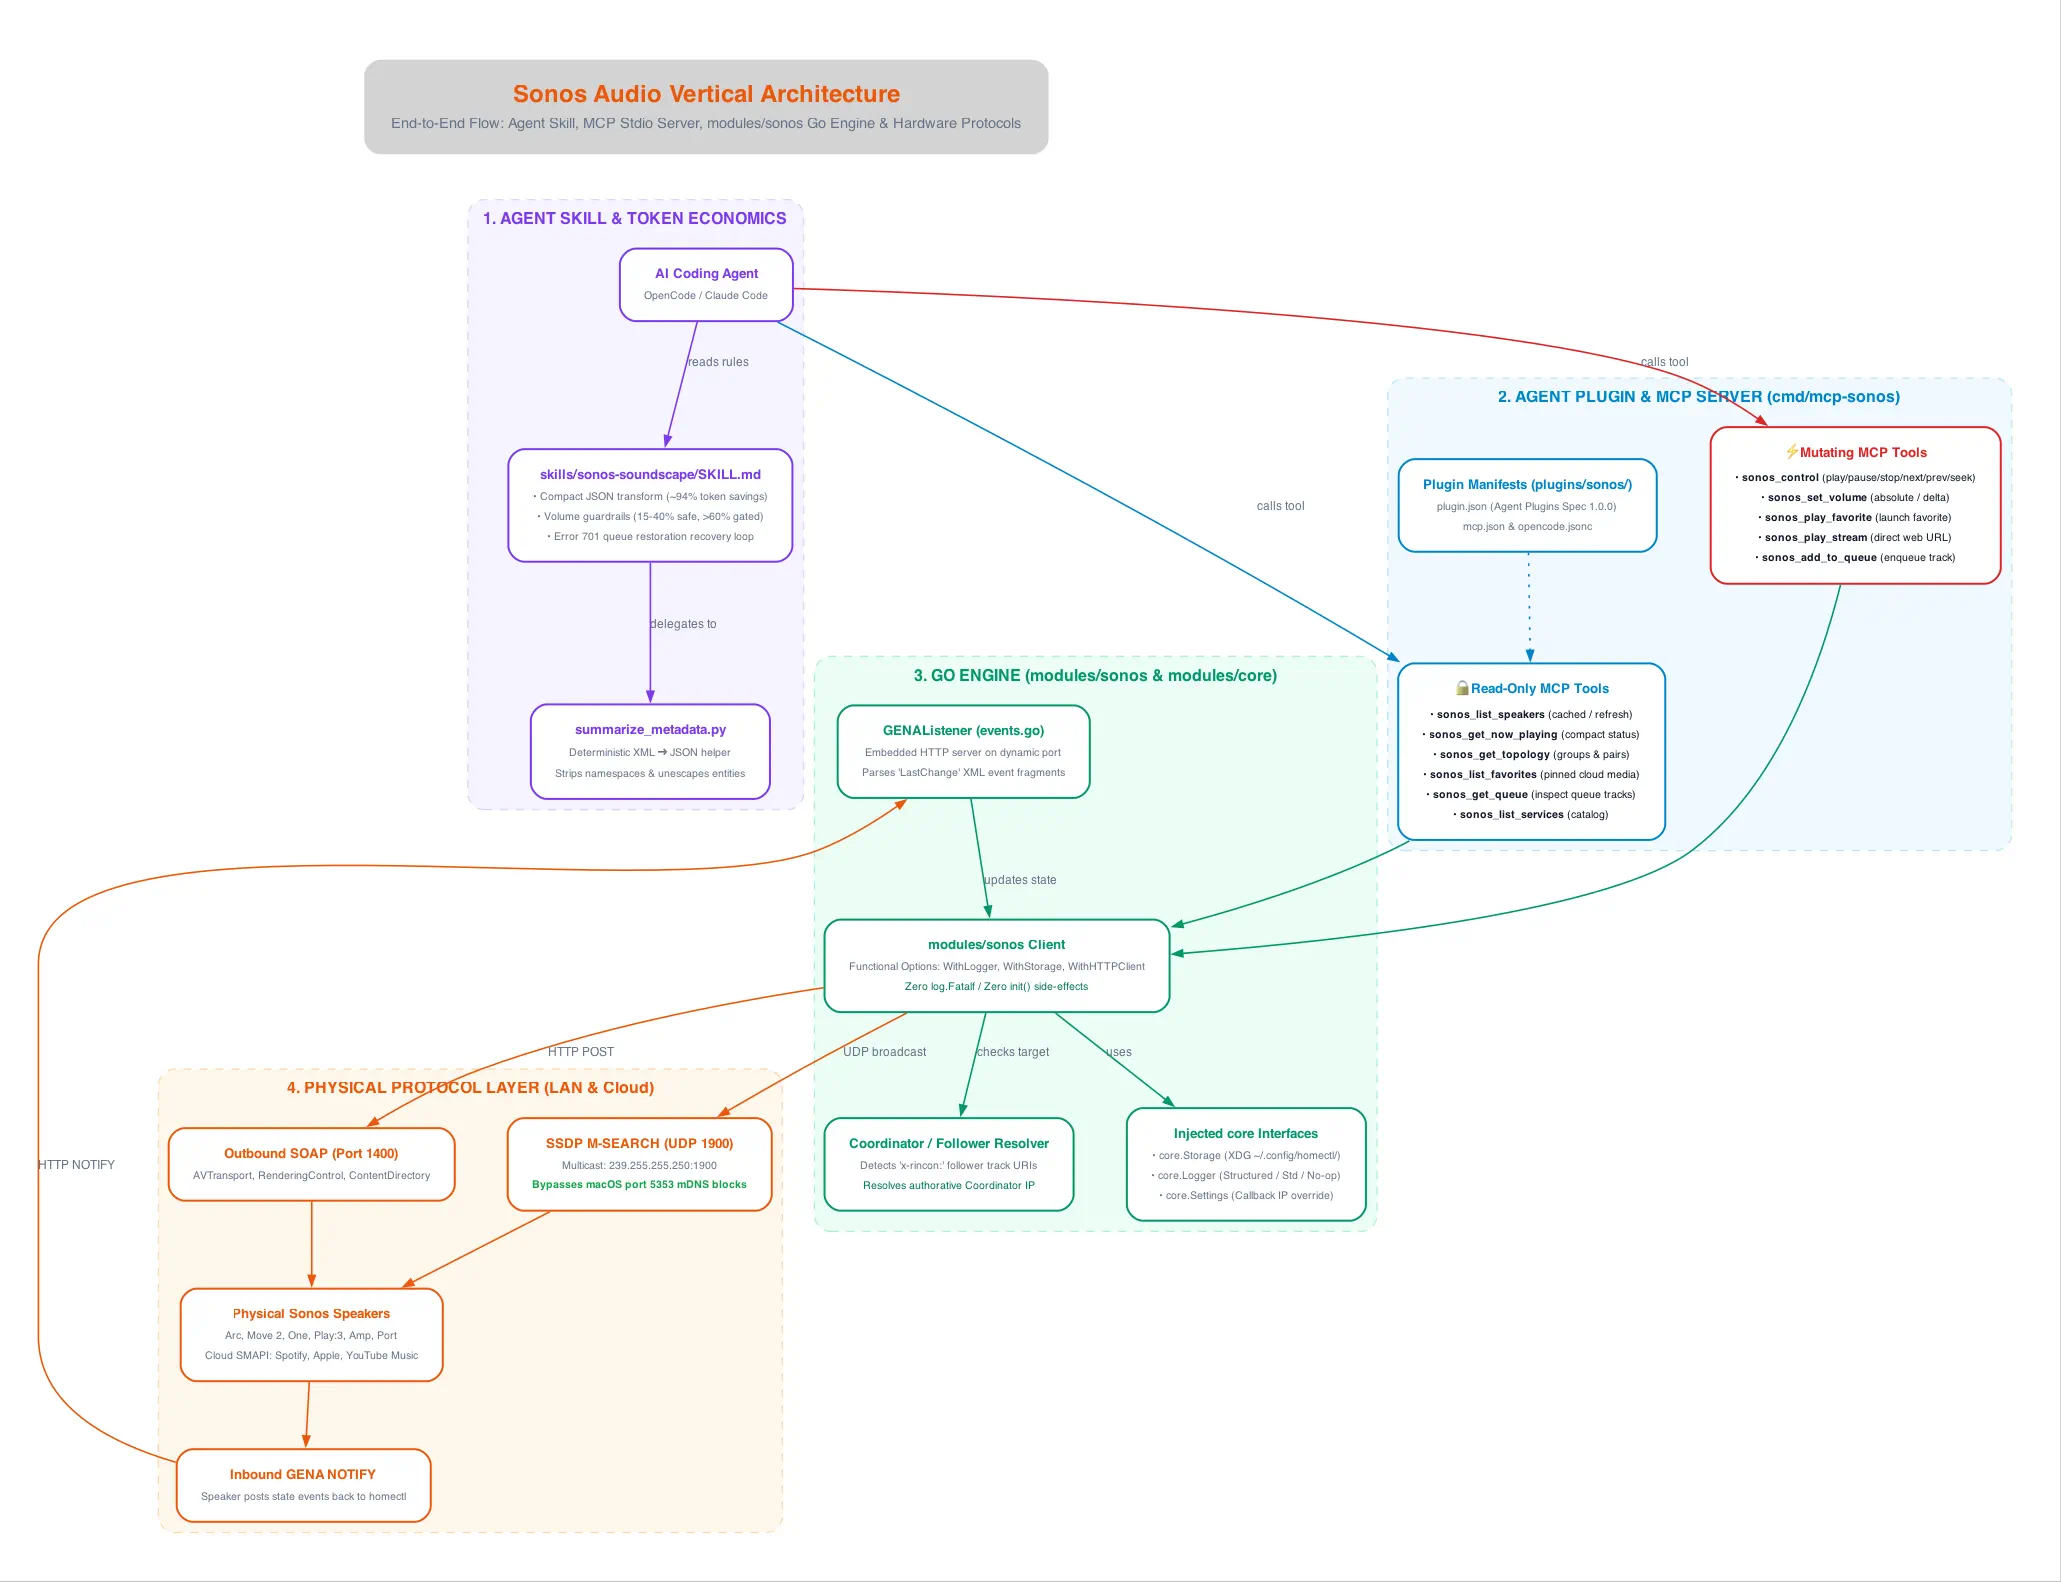
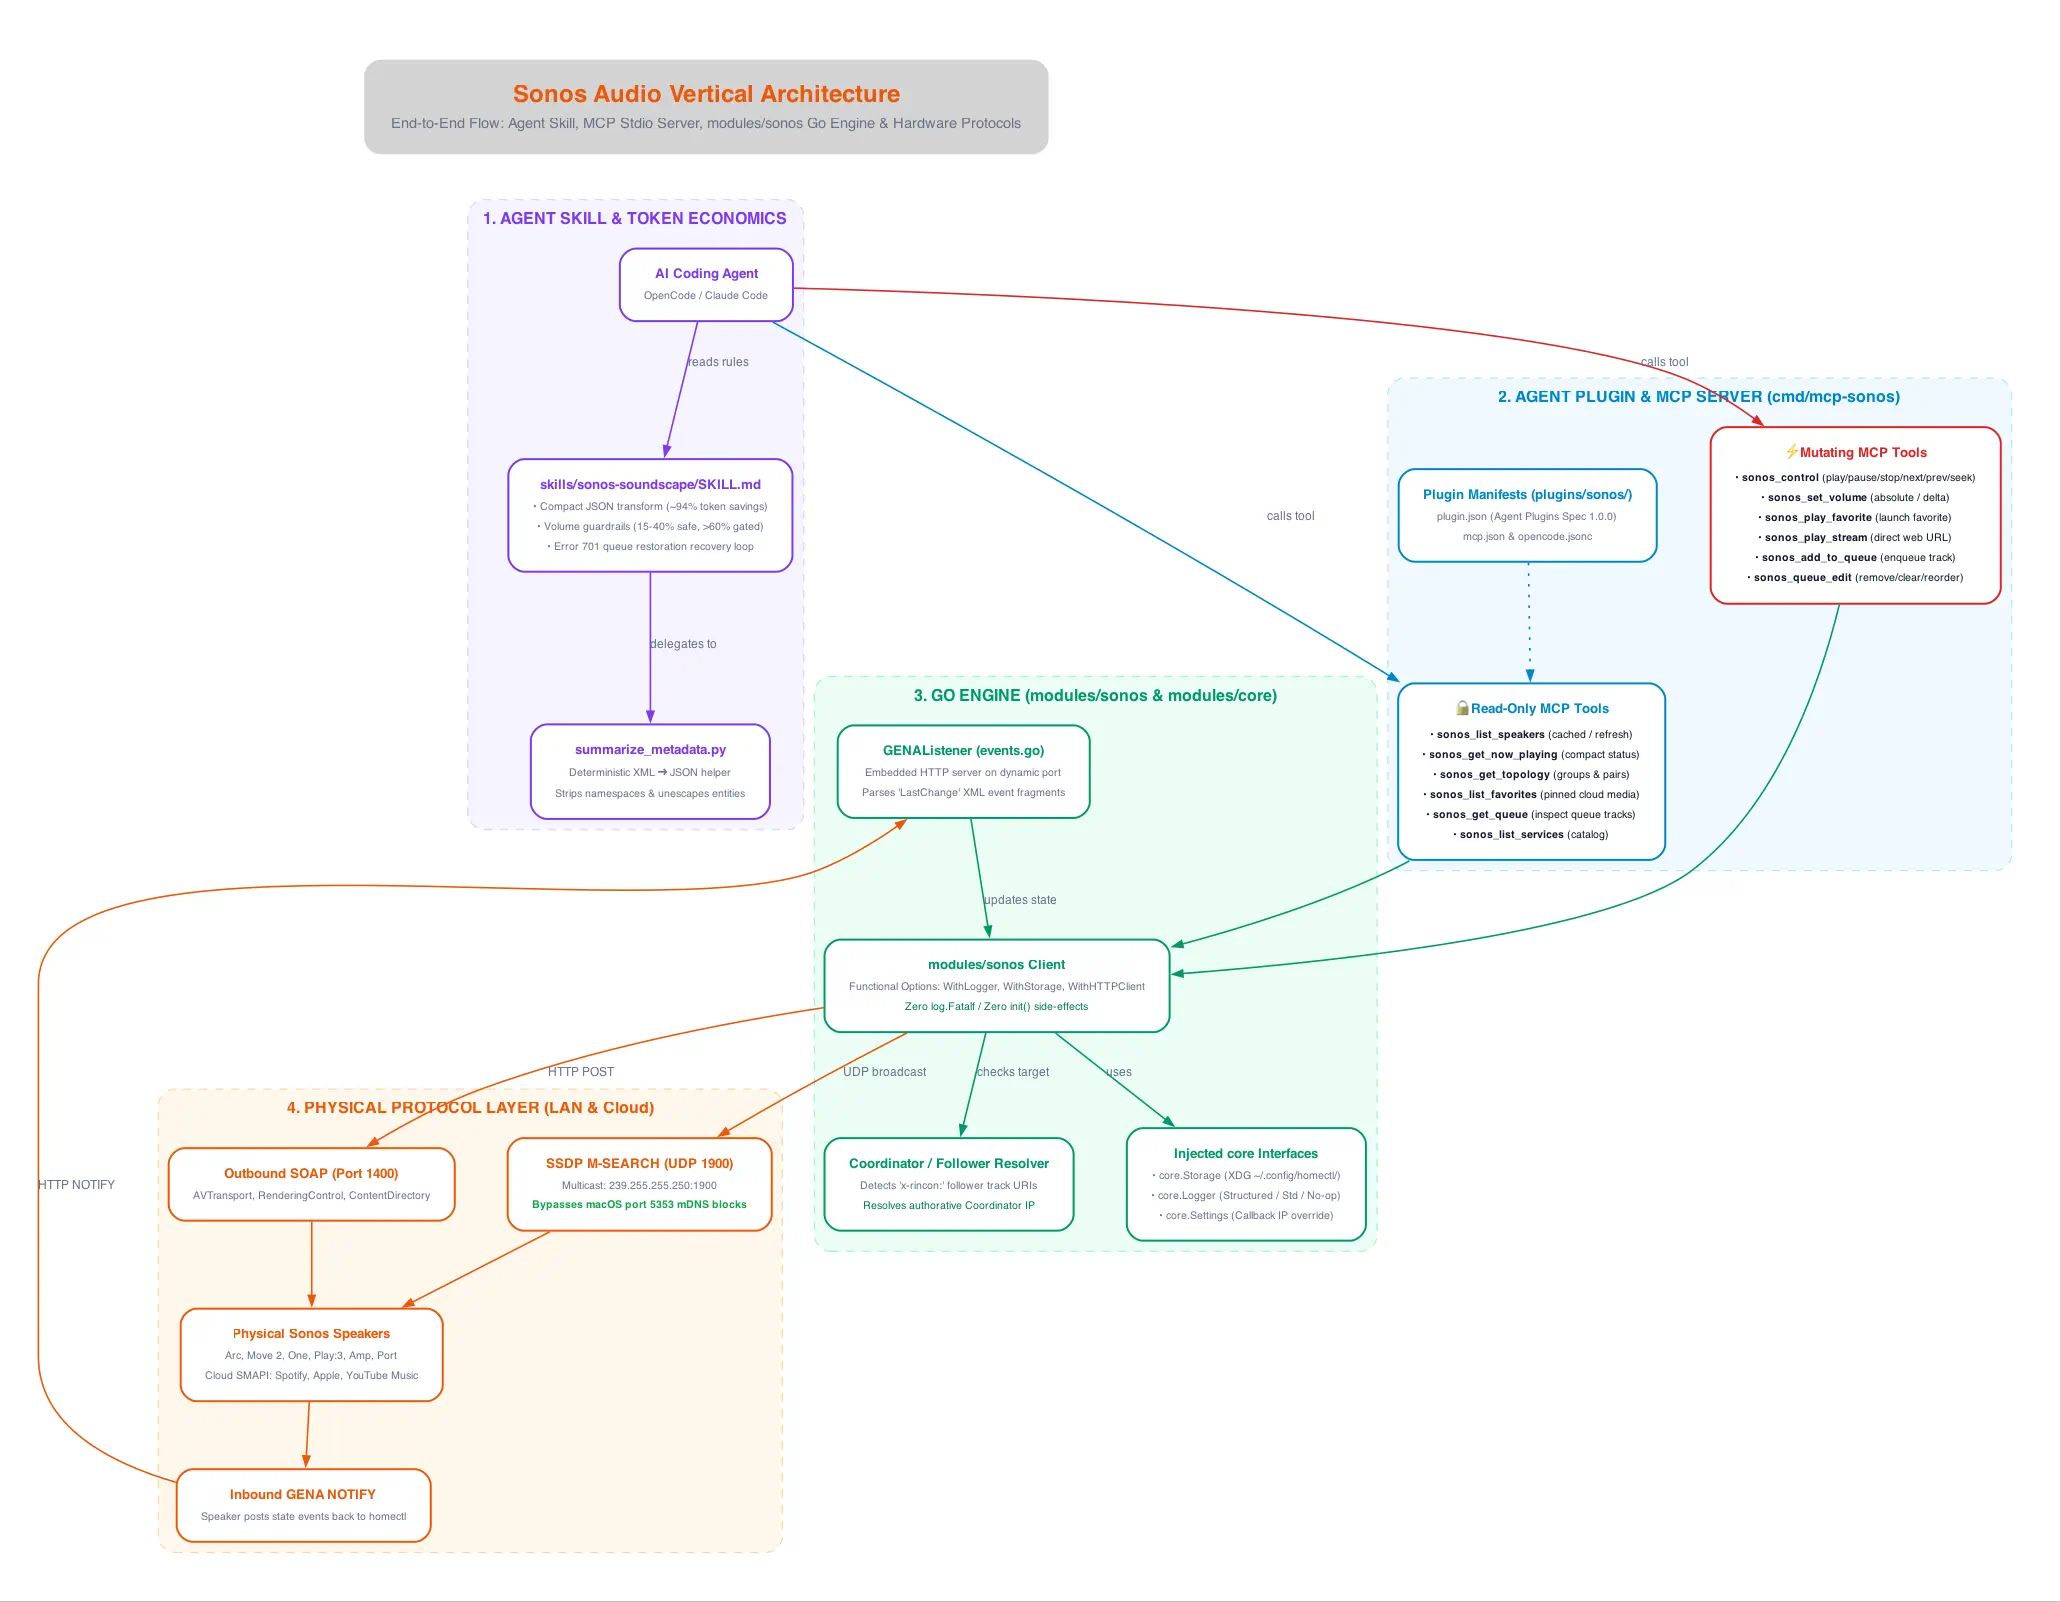
docs(sonos): document sonos_queue_edit MCP tool and queue CLI commands (control-znc, control-6ht, control-s5y)

diff --git a/docs/src/content/docs/agents/mcp-servers.md b/docs/src/content/docs/agents/mcp-servers.md
@@ -36,6 +36,7 @@ The `mcp-sonos` server exposes **10 focused tools** and **1 live resource**.
 | **`sonos_play_stream`** | ⚡ Mutating | Streams an arbitrary HTTP/HTTPS audio URL | `ip: string`, `url: string`, `title?: string` |
 | **`sonos_add_to_queue`** | ⚡ Mutating | Enqueues a track URI into the active queue | `ip: string`, `uri: string`, `metadata?: string`, `as_next?: bool` |
 | **`sonos_get_queue`** | 🔒 Read-Only | Inspects tracks in playback queue with pagination | `ip: string`, `start?: int`, `count?: int` |
+| **`sonos_queue_edit`** | ⚡ Mutating | Edits queue (`remove`, `clear`, `reorder` / bump to next) | `ip: string`, `action: string`, `track?: int`, `count?: int`, `insert_before?: int`, `as_next?: bool` |
 
 ---
 
@@ -280,6 +281,43 @@ Inspects tracks in the Sonos playback queue on the speaker with track titles, ar
       "count": { "type": "integer", "description": "Maximum number of queue items to return (default 100)" }
     },
     "required": ["ip"]
+  }
+  ```
+
+---
+
+### `sonos_queue_edit` (Mutating)
+Edits the local playback queue on a Sonos speaker. Supports removing tracks (`action: "remove"`), clearing the entire queue (`action: "clear"`), and reordering tracks or bumping them to play next (`action: "reorder"`).
+
+* **Parameters:**
+  ```json
+  {
+    "type": "object",
+    "properties": {
+      "ip": { "type": "string", "description": "IP address of the Sonos speaker (required)" },
+      "action": {
+        "type": "string",
+        "enum": ["remove", "clear", "reorder"],
+        "description": "Queue edit action to execute (required)"
+      },
+      "track": {
+        "type": "integer",
+        "description": "1-based track position in queue (required for remove and reorder)"
+      },
+      "count": {
+        "type": "integer",
+        "description": "Number of tracks to remove or reorder (default 1)"
+      },
+      "insert_before": {
+        "type": "integer",
+        "description": "1-based target track position to insert before (for reorder)"
+      },
+      "as_next": {
+        "type": "boolean",
+        "description": "If true, moves track(s) to play immediately after the currently playing track (for reorder)"
+      }
+    },
+    "required": ["ip", "action"]
   }
   ```
 

diff --git a/docs/src/content/docs/interfaces/cli.md b/docs/src/content/docs/interfaces/cli.md
@@ -44,6 +44,9 @@ homectl
 │   ├── play-stream  # Play direct HTTP/HTTPS audio stream
 │   ├── queue-add    # Enqueue track to playback queue
 │   ├── queue        # View items in playback queue
+│   ├── queue-remove # Remove track(s) from playback queue
+│   ├── queue-clear  # Clear all tracks from playback queue
+│   ├── queue-reorder# Reorder tracks in playback queue
 │   └── services     # List streaming services catalog
 └── qolsys           # Qolsys alarm panel integration
     └── monitor      # Stream live panel events via WebSocket
@@ -136,6 +139,28 @@ Inspects items in the Sonos playback queue with positions, titles, artists, and 
 ```bash
 homectl sonos queue 192.168.1.120 --start 0 --count 20
 homectl sonos queue 192.168.1.120 --json
+```
+
+### `homectl sonos queue-remove [ip]`
+Removes one or more tracks from the Sonos playback queue. Supports `--dry-run`:
+```bash
+homectl sonos queue-remove 192.168.1.120 --track 3 --count 1
+homectl sonos queue-remove 192.168.1.120 --track 3 --dry-run
+```
+
+### `homectl sonos queue-clear [ip]`
+Clears all tracks from the speaker's playback queue. Supports `--dry-run`:
+```bash
+homectl sonos queue-clear 192.168.1.120
+homectl sonos queue-clear 192.168.1.120 --dry-run
+```
+
+### `homectl sonos queue-reorder [ip]`
+Reorders tracks in the playback queue, moving a track range before a target position or bumping to play next. Supports `--dry-run`:
+```bash
+homectl sonos queue-reorder 192.168.1.120 --track 8 --as-next
+homectl sonos queue-reorder 192.168.1.120 --track 5 --insert-before 2
+homectl sonos queue-reorder 192.168.1.120 --track 8 --as-next --dry-run
 ```
 
 ### `homectl sonos services [ip]`

diff --git a/plugins/sonos/skills/sonos-soundscape/SKILL.md b/plugins/sonos/skills/sonos-soundscape/SKILL.md
@@ -100,6 +100,10 @@ For internet radio, podcasts, or TTS voice announcements:
 4. **Queue Jumping & Time Seeking (`sonos_control`):**
    - Jump directly to a 1-based queue track number: `sonos_control(ip: "<ip>", action: "seek_track", track: <n>)`.
    - Seek to a time offset in the active track: `sonos_control(ip: "<ip>", action: "seek_time", target: "<[H:]MM:SS>")`.
+5. **Editing the Playback Queue (`sonos_queue_edit`):**
+   - Remove tracks: `sonos_queue_edit(ip: "<ip>", action: "remove", track: <n>, count?: <m>)`.
+   - Clear entire queue: `sonos_queue_edit(ip: "<ip>", action: "clear")`.
+   - Reorder tracks: `sonos_queue_edit(ip: "<ip>", action: "reorder", track: <n>, insert_before: <pos>)` or with `as_next: true` to bump a song to play next.
 
 ---
 
@@ -119,6 +123,7 @@ When interacting with `homectl-sonos-mcp`:
 | `sonos_play_stream`    | ⚡ Mutating | Play HTTP/HTTPS audio stream (radio/podcast/TTS) | `ip: string`, `url: string`, `title?: string` |
 | `sonos_add_to_queue`   | ⚡ Mutating | Add audio URI to queue (optionally as next track) | `ip: string`, `uri: string`, `metadata?: string`, `as_next?: bool` |
 | `sonos_get_queue`      | 🔒 Read-Only | Inspect tracks in queue with titles, artists, positions | `ip: string`, `start?: int`, `count?: int` |
+| `sonos_queue_edit`     | ⚡ Mutating | Edit queue: remove tracks, clear all, or reorder (bump to next) | `ip: string`, `action: string`, `track?: int`, `count?: int`, `insert_before?: int`, `as_next?: bool` |
 | `sonos_list_services`  | 🔒 Read-Only | List streaming services & default provider | `ip: string` |
 
 ---

diff --git a/skills/sonos-soundscape/SKILL.md b/skills/sonos-soundscape/SKILL.md
@@ -100,6 +100,10 @@ For internet radio, podcasts, or TTS voice announcements:
 4. **Queue Jumping & Time Seeking (`sonos_control`):**
    - Jump directly to a 1-based queue track number: `sonos_control(ip: "<ip>", action: "seek_track", track: <n>)`.
    - Seek to a time offset in the active track: `sonos_control(ip: "<ip>", action: "seek_time", target: "<[H:]MM:SS>")`.
+5. **Editing the Playback Queue (`sonos_queue_edit`):**
+   - Remove tracks: `sonos_queue_edit(ip: "<ip>", action: "remove", track: <n>, count?: <m>)`.
+   - Clear entire queue: `sonos_queue_edit(ip: "<ip>", action: "clear")`.
+   - Reorder tracks: `sonos_queue_edit(ip: "<ip>", action: "reorder", track: <n>, insert_before: <pos>)` or with `as_next: true` to bump a song to play next.
 
 ---
 
@@ -119,6 +123,7 @@ When interacting with `homectl-sonos-mcp`:
 | `sonos_play_stream`    | ⚡ Mutating | Play HTTP/HTTPS audio stream (radio/podcast/TTS) | `ip: string`, `url: string`, `title?: string` |
 | `sonos_add_to_queue`   | ⚡ Mutating | Add audio URI to queue (optionally as next track) | `ip: string`, `uri: string`, `metadata?: string`, `as_next?: bool` |
 | `sonos_get_queue`      | 🔒 Read-Only | Inspect tracks in queue with titles, artists, positions | `ip: string`, `start?: int`, `count?: int` |
+| `sonos_queue_edit`     | ⚡ Mutating | Edit queue: remove tracks, clear all, or reorder (bump to next) | `ip: string`, `action: string`, `track?: int`, `count?: int`, `insert_before?: int`, `as_next?: bool` |
 | `sonos_list_services`  | 🔒 Read-Only | List streaming services & default provider | `ip: string` |
 
 ---

diff --git a/README.md b/README.md
@@ -111,7 +111,7 @@ All CLI commands support `--json` for machine-readable output and `--dry-run` fo
 ./bin/mcp-sonos
 ```
 
-Exposes 11 token-budgeted tools (`sonos_list_speakers`, `sonos_get_now_playing`, `sonos_get_topology`, `sonos_control`, `sonos_set_volume`, `sonos_list_favorites`, `sonos_play_favorite`, `sonos_play_stream`, `sonos_add_to_queue`, `sonos_get_queue`, `sonos_list_services`) adhering to SEP-2106 object return schemas. See the [AI Agent Ecosystem Guide](https://ghchinoy.github.io/homectl/agents/overview/) for full client configuration details.
+Exposes 12 token-budgeted tools (`sonos_list_speakers`, `sonos_get_now_playing`, `sonos_get_topology`, `sonos_control`, `sonos_set_volume`, `sonos_list_favorites`, `sonos_play_favorite`, `sonos_play_stream`, `sonos_add_to_queue`, `sonos_get_queue`, `sonos_queue_edit`, `sonos_list_services`) adhering to SEP-2106 object return schemas. See the [AI Agent Ecosystem Guide](https://ghchinoy.github.io/homectl/agents/overview/) for full client configuration details.
 
 ### Web UI & API Server
 

diff --git a/docs/src/content/docs/architecture/sonos.md b/docs/src/content/docs/architecture/sonos.md
@@ -36,6 +36,7 @@ The MCP server communicates with AI agents over standard I/O using the official 
 | **`sonos_play_stream`** | ⚡ Mutating | `{"status": "ok", "url": ...}` | Streams an arbitrary HTTP/HTTPS audio URL (radio, podcast, or TTS). |
 | **`sonos_add_to_queue`** | ⚡ Mutating | `{"status": "ok", "track_position": ...}` | Enqueues track or container URI (with optional metadata and as-next flag). |
 | **`sonos_get_queue`** | 🔒 Read-Only | `QueueResult{Items, TotalMatches}` | Inspects playback queue tracks with pagination support. |
+| **`sonos_queue_edit`** | ⚡ Mutating | `{"status": "ok", "action": ...}` | Edits queue: removes tracks, clears queue, or reorders tracks. |
 | **`sonos_list_services`** | 🔒 Read-Only | `ListServicesResult{Count, Services}` | Lists registered music services and configured default provider. |
 
 All output schemas conform to **MCP SEP-2106** and OpenCode validation rules by returning Go records (JSON objects), never bare arrays.

diff --git a/CHANGELOG.md b/CHANGELOG.md
@@ -8,6 +8,9 @@ and this project adheres to [Semantic Versioning](https://semver.org/spec/v2.0.0
 
 ## [Unreleased]
 
+### Added
+- **Sonos Queue Management Suite:** Added `sonos_queue_edit` MCP tool and CLI subcommands `homectl sonos queue-remove`, `queue-clear`, and `queue-reorder` (with `--as-next` convenience and `--dry-run`), providing local queue editing via UPnP `RemoveTrackRangeFromQueue`, `RemoveAllTracksFromQueue`, and `ReorderTracksInQueue` ([control-znc], [control-6ht], [control-s5y]).
+
 ## [0.2.0] - 2026-09-05
 
 _Major architectural release introducing disaggregated Go modules, standalone Agent Plugins (MCP), Catppuccin Astro Starlight documentation, and robust audio stream management._

diff --git a/docs/src/content/docs/integrations/sonos.md b/docs/src/content/docs/integrations/sonos.md
@@ -85,6 +85,18 @@ Play arbitrary internet radio streams, podcasts, or TTS voice announcements dire
 
 # Seek to 1 minute 30 seconds within current track
 ./homectl sonos seek 192.168.1.120 --time 1:30
+
+# Remove track 3 (or range of tracks) from queue
+./homectl sonos queue-remove 192.168.1.120 --track 3 --count 1
+
+# Reorder track: bump track 8 to play next
+./homectl sonos queue-reorder 192.168.1.120 --track 8 --as-next
+
+# Reorder track: move track 5 before track 2
+./homectl sonos queue-reorder 192.168.1.120 --track 5 --insert-before 2
+
+# Clear all tracks from queue
+./homectl sonos queue-clear 192.168.1.120
 ```
 
 ---
